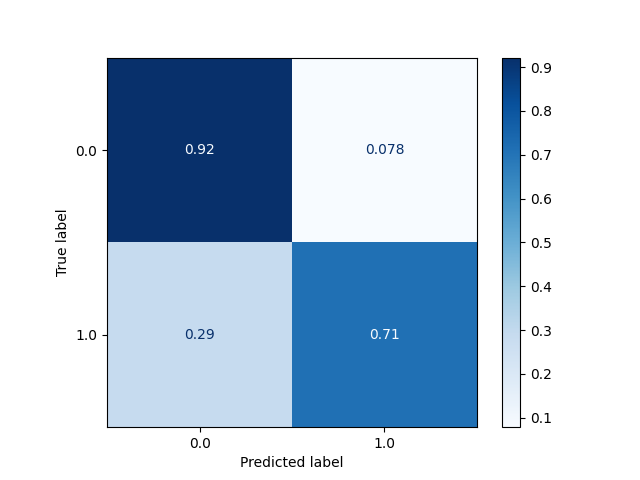
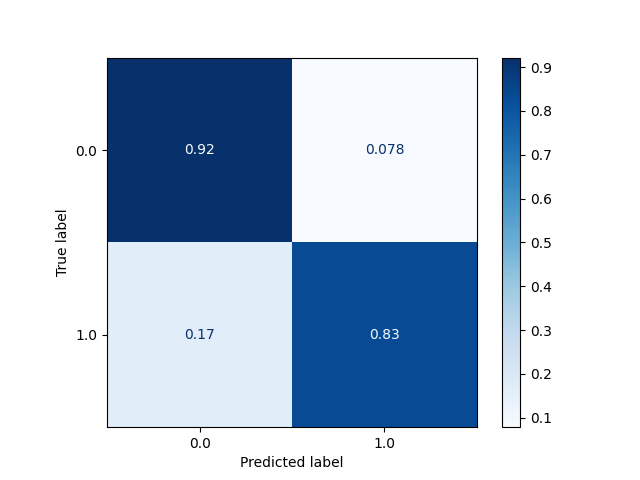
Exp with acciracy 87.20%

Changed region(s): [[0.1562, 0.5, 0.75, 0.9062]]

diff --git a/train.py b/train.py
@@ -14,7 +14,7 @@ y_test = np.genfromtxt("data/test_labels.csv")
 
 
 # Fit a model
-depth = 1
+depth = 5
 clf = RandomForestClassifier(max_depth=depth)
 clf.fit(X_train,y_train)
 dump(clf, "model.joblib")
